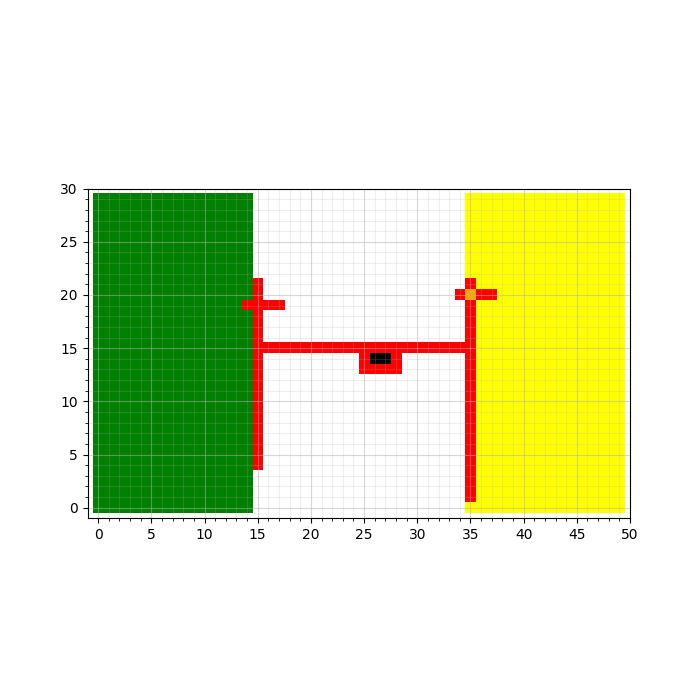
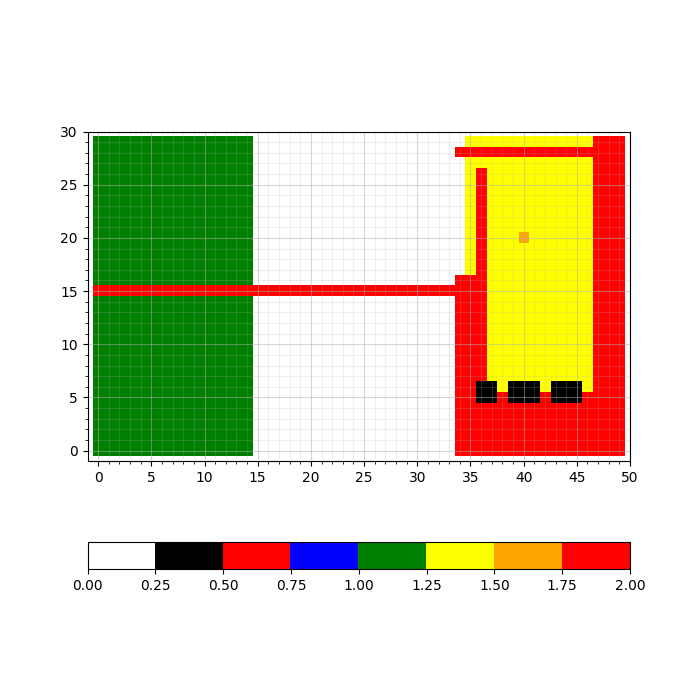
New live map and odometry

Changed region(s): [[0.09, 0.18, 0.93, 0.84], [0.12, 0.81, 0.15, 0.84]]

diff --git a/crazyflie-lib-python/cp_examples/Move.py b/crazyflie-lib-python/cp_examples/Move.py
@@ -60,28 +60,32 @@ def update_grid(grid, x, y):
     dists = [0.1, 0.2]
     if (is_close(multiranger.front)):
         for i in dists:
-            if grid[floor((x + i) * multx)][floor((y) * multy)] != 1:
-                update_bool = True
-                print(str(floor((x + i) * multx)) + " " + str(floor((y) * multy)))
-            grid[floor((x + i) * multx)][floor((y) * multy)] = 1
+            if(x+i<5):
+                if grid[floor((x + i) * multx)][floor((y) * multy)] != 1:
+                    update_bool = True
+                    print(str(floor((x + i) * multx)) + " " + str(floor((y) * multy)))
+                grid[floor((x + i) * multx)][floor((y) * multy)] = 1
     if (is_close(multiranger.back)):
         for i in dists:
-            if grid[floor((x - i) * multx)][floor((y) * multy)] != 1:
-                update_bool = True
-                print(str(floor((x - i) * multx)) + " " + str(floor((y) * multy)))
-            grid[floor((x - i) * multx)][floor((y) * multy)] = 1
+            if(x-i>=0):
+                if grid[floor((x - i) * multx)][floor((y) * multy)] != 1:
+                    update_bool = True
+                    print(str(floor((x - i) * multx)) + " " + str(floor((y) * multy)))
+                grid[floor((x - i) * multx)][floor((y) * multy)] = 1
     if (is_close(multiranger.left)):
         for i in dists:
-            if grid[floor((x) * multx)][floor((y + i) * multy)] != 1:
-                update_bool = True
-                print(str(floor((x) * multx)) + " " + str(floor((y + i) * multy)))
-            grid[floor((x) * multx)][floor((y + i) * multy)] = 1
+            if(y+i<3):
+                if grid[floor((x) * multx)][floor((y + i) * multy)] != 1:
+                    update_bool = True
+                    print(str(floor((x) * multx)) + " " + str(floor((y + i) * multy)))
+                grid[floor((x) * multx)][floor((y + i) * multy)] = 1
     if (is_close(multiranger.right)):
         for i in dists:
-            if grid[floor((x) * multx)][floor((y - 1) * multy)] != 1:
-                update_bool = True
-                print(str(floor((x) * multx)) + " " + str(floor((y - 1) * multy)))
-            grid[floor((x) * multx)][floor((y - i) * multy)] = 1
+            if(y-i>=0):
+                if grid[floor((x) * multx)][floor((y - 1) * multy)] != 1:
+                    update_bool = True
+                    print(str(floor((x) * multx)) + " " + str(floor((y - 1) * multy)))
+                grid[floor((x) * multx)][floor((y - i) * multy)] = 1
     return grid, update_bool
 
 
@@ -182,49 +186,49 @@ def dijkstra_landing(grid, x, y):
     grid_value[floor(10 * x)][floor(10 * y)] = 0
     value = 0
     dest_found = False
-
+    print("Start dijkstra")
     while (not dest_found):
-        for i in range(grid.shape[0]):
-            if (i>=35 + 1):
-                if (i <= floor(10 * x) + value + 1 and i >= floor(10 * x) - value - 1):
-                    for j in range(grid.shape[1]):
-                        if (j <= floor(10 * y) + value + 1 and j >= floor(10 * y) - value - 1):
-                            if (grid_value[i][j] == value):
-                                if (i - 1 >= 0):
-                                    if (grid[i - 1][j] != 1 and grid_value[i - 1][j] > value + 1):
-                                        grid_value[i - 1][j] = value + 1
-                                        if(grid[i - 1][j] != 6):
-                                            dest_found = True
-                                            x_tmp = i - 1
-                                            y_tmp = j
-                                            continue
-                                if (i + 1 < grid.shape[0]):
-                                    if (grid[i + 1][j] != 1 and grid_value[i + 1][j] > value + 1):
-                                        grid_value[i + 1][j] = value + 1
-                                        if (grid[i + 1][j] != 6):
-                                            dest_found = True
-                                            x_tmp = i + 1
-                                            y_tmp = j
-                                            continue
-                                if (j - 1 >= 0):
-                                    if (grid[i][j - 1] != 1 and grid_value[i][j - 1] > value + 1):
-                                        grid_value[i][j - 1] = value + 1
-                                        if (grid[i][j - 1] != 6):
-                                            dest_found = True
-                                            x_tmp = i
-                                            y_tmp = j - 1
-                                            continue
-                                if (j + 1 < grid.shape[1]):
-                                    if (grid[i][j + 1] != 1 and grid_value[i][j + 1] > value + 1):
-                                        grid_value[i][j + 1] = value + 1
-                                        if(grid[i - 1][j] != 6):
-                                            dest_found = True
-                                            x_tmp = i - 1
-                                            y_tmp = j
-                                            continue
+        for i in range(35,grid.shape[0]):
+            if (i <= floor(10 * x) + value + 1 and i >= floor(10 * x) - value - 1):
+                for j in range(grid.shape[1]):
+                    if (j <= floor(10 * y) + value + 1 and j >= floor(10 * y) - value - 1):
+                        if (grid_value[i][j] == value):
+                            if (i - 1 >= 35):
+                                if (grid[i - 1][j] != 1 and grid_value[i - 1][j] > value + 1):
+                                    grid_value[i - 1][j] = value + 1
+                                    if(grid[i - 1][j] != 6):
+                                        dest_found = True
+                                        x_tmp = i - 1
+                                        y_tmp = j
+                                        continue
+                            if (i + 1 < grid.shape[0]):
+                                if (grid[i + 1][j] != 1 and grid_value[i + 1][j] > value + 1):
+                                    grid_value[i + 1][j] = value + 1
+                                    if (grid[i + 1][j] != 6):
+                                        dest_found = True
+                                        x_tmp = i + 1
+                                        y_tmp = j
+                                        continue
+                            if (j - 1 >= 0):
+                                if (grid[i][j - 1] != 1 and grid_value[i][j - 1] > value + 1):
+                                    grid_value[i][j - 1] = value + 1
+                                    if (grid[i][j - 1] != 6):
+                                        dest_found = True
+                                        x_tmp = i
+                                        y_tmp = j - 1
+                                        continue
+                            if (j + 1 < grid.shape[1]):
+                                if (grid[i][j + 1] != 1 and grid_value[i][j + 1] > value + 1):
+                                    grid_value[i][j + 1] = value + 1
+                                    if(grid[i - 1][j] != 6):
+                                        dest_found = True
+                                        x_tmp = i - 1
+                                        y_tmp = j
+                                        continue
 
         value += 1
 
+    print("Found destination Dijkstra")
     value = grid_value[x_tmp][y_tmp]
     path_list = []
     path_list.append([x_tmp, y_tmp])
@@ -410,7 +414,7 @@ def goal(x, y):
             vy = VELOCITY
         elif line3 and not is_close(multiranger.right):
             vy = -VELOCITY
-        """"
+
         for i in range(3):
             ind_x = floor(10 * x) + i - 1
             if ind_x >= 0 and ind_x < grid.shape[0]:
@@ -419,7 +423,7 @@ def goal(x, y):
                     if ind_y >= 0 and ind_y < grid.shape[1]:
                         if grid[ind_x][ind_y] == 0:
                             grid[ind_x][ind_y] = 6
-        """
+
     else:
         motion_commander.start_linear_motion(0, 0, 0)
         time.sleep(1)
@@ -441,9 +445,9 @@ def goalmissed(x, y, path_return):
         dist_x = path_return[-1][0] + 0.5 - x * 10
         dist_y = path_return[-1][1] + 0.5 - y * 10
         print("Current postion coords: X=" + str(round(x * 10, 2)) + " Y:" + str(round(y * 10, 2)))
-        print(
-            "Current objective coords: X=" + str(path_return[-1][0]) + " Y:" + str(path_return[-1][1]))
+        print( "Current objective coords: X=" + str(path_return[-1][0]) + " Y:" + str(path_return[-1][1]))
         if abs(dist_x) < VELOCITY and abs(dist_y) < VELOCITY:
+            grid[path_return[-1][0]][path_return[-1][1]]=6
             path_return.pop()
             if len(path_return) == 0:
                 path_return = dijkstra_landing(grid, x, y)
@@ -707,15 +711,15 @@ def findstart(x,y):
 uri = 'radio://0/10/2M/E7E7E7E7E7'
 
 # middle, obstacle, path, starting zone, landing zone, landing pad, visited
-cmap = colors.ListedColormap(['white', 'black', 'red', 'blue', 'green', 'yellow', 'orange'])
+cmap = colors.ListedColormap(['white', 'black', 'red', 'blue', 'green', 'yellow', 'orange', 'red'])
 
 img_size = (50, 30)
 grid = np.zeros((img_size[0], img_size[1]))
 fig, ax = create_empty_plot(img_size[1], img_size[0])
 
 # initial position
-x0 = 0
-y0 = 0
+x0 = 0.75
+y0 = 1.5
 
 # State of the drone
 ADVANCE = 1
@@ -771,7 +775,9 @@ x_f = 0  # x front
 goal_pos = (-1, -1)
 updated_bool = False
 path_return = []
-
+map_changed = True
+time_real = 0.1
+time_start=0
 ###############################################################################
 ##################### Beginning of the program ################################
 ###############################################################################
@@ -782,8 +788,11 @@ if len(sys.argv) > 1:
     if len(sys.argv) > 2:
         y0 = float(sys.argv[2])
 
+tmp_x = x0
+tmp_y = y0
+tmp_value = 0
 path_all = [(floor(x0 * 10), floor(y0 * 10))]
-
+im = None
 if __name__ == '__main__':
     cflib.crtp.init_drivers(enable_debug_driver=False)
     cf = Crazyflie(rw_cache='./cache')
@@ -838,22 +847,49 @@ if __name__ == '__main__':
                         motion_commander.start_linear_motion(vx, vy, 0)
                     prev_vx = vx
                     prev_vy = vy
-                    x += vx * 0.1
-                    y += vy * 0.1
 
+                    time_end=time.time()
+                    if(time_start!=0):
+                        time_real=time_end-time_start
+                        #print("Real time: "+ str(time_real))
+                    x += vx * time_real
+                    y += vy * time_real
+                    time_start=time.time()
                     if abs(floor(x * 10) - path_all[-1][0]) > 0.1 or abs(floor(y * 10) - path_all[-1][1]) > 0.1:
                         path_all.append((floor(x * 10), floor(y * 10)))
 
                     # stop the program if hand is placed above drone
                     if is_close(multiranger.up):
-                        print("landing")
+                        print("Forced landing")
                         keep_flying = False
-                    time.sleep(0.1)
-                    ##                    print("{}  {} {}".format(round(x,2),round(y,2), multiranger.down))
+
                     # update the grid with obstacles and visited position
                     grid, updated_bool = update_grid(grid, x, y)
                     if (updated_bool):
                         print("New obstacle found")
+
+                    if (x != tmp_x or y != tmp_y):
+                        grid[floor(tmp_x*10)][floor(tmp_y*10)]=tmp_value
+                        tmp_value = grid[floor(x*10)][floor(y*10)]
+                        tmp_x = x
+                        tmp_y = y
+                        grid[floor(x*10)][floor(y*10)]=7
+                        map_changed = True
+
+                    if (map_changed):
+                        if not im:
+                            # for the first frame generate the plot...
+                            im = plt.imshow(np.transpose(grid), cmap=cmap, interpolation='none', vmin=0, vmax=2)
+                            plt.colorbar(im, orientation='horizontal')
+                        else:
+                            # ... for subsequent times only update the data
+                            im.set_data(np.transpose(grid))
+
+                        plt.draw()
+                        map_changed=False;
+                        plt.pause(0.0001)
+
+
 
                     ### grid[floor(x * 10)][floor(y * 10)] = 2
 

diff --git a/crazyflie-lib-python/cp_examples/File.py b/crazyflie-lib-python/cp_examples/File.py
@@ -1,0 +1,25 @@
+
+from math import *
+import numpy as np
+import matplotlib.pyplot as plt
+from matplotlib import colors
+import time
+
+
+cmap = colors.ListedColormap(['white', 'black', 'red', 'blue', 'green', 'yellow', 'orange'])
+
+img_size = (50, 30)
+grid = np.zeros((img_size[0], img_size[1]))
+
+im = None
+for i in range(49):    # draw 20 frames
+    grid[i][5] = 2
+    if not im:
+        # for the first frame generate the plot...
+        im = plt.imshow(np.transpose(grid), cmap = cmap, interpolation='none',vmin=0,vmax=2)    
+        plt.colorbar(im, orientation='horizontal')
+    else:
+        # ... for subsequent times only update the data
+        im.set_data(np.transpose(grid))
+    plt.draw()
+    plt.pause(0.1)
